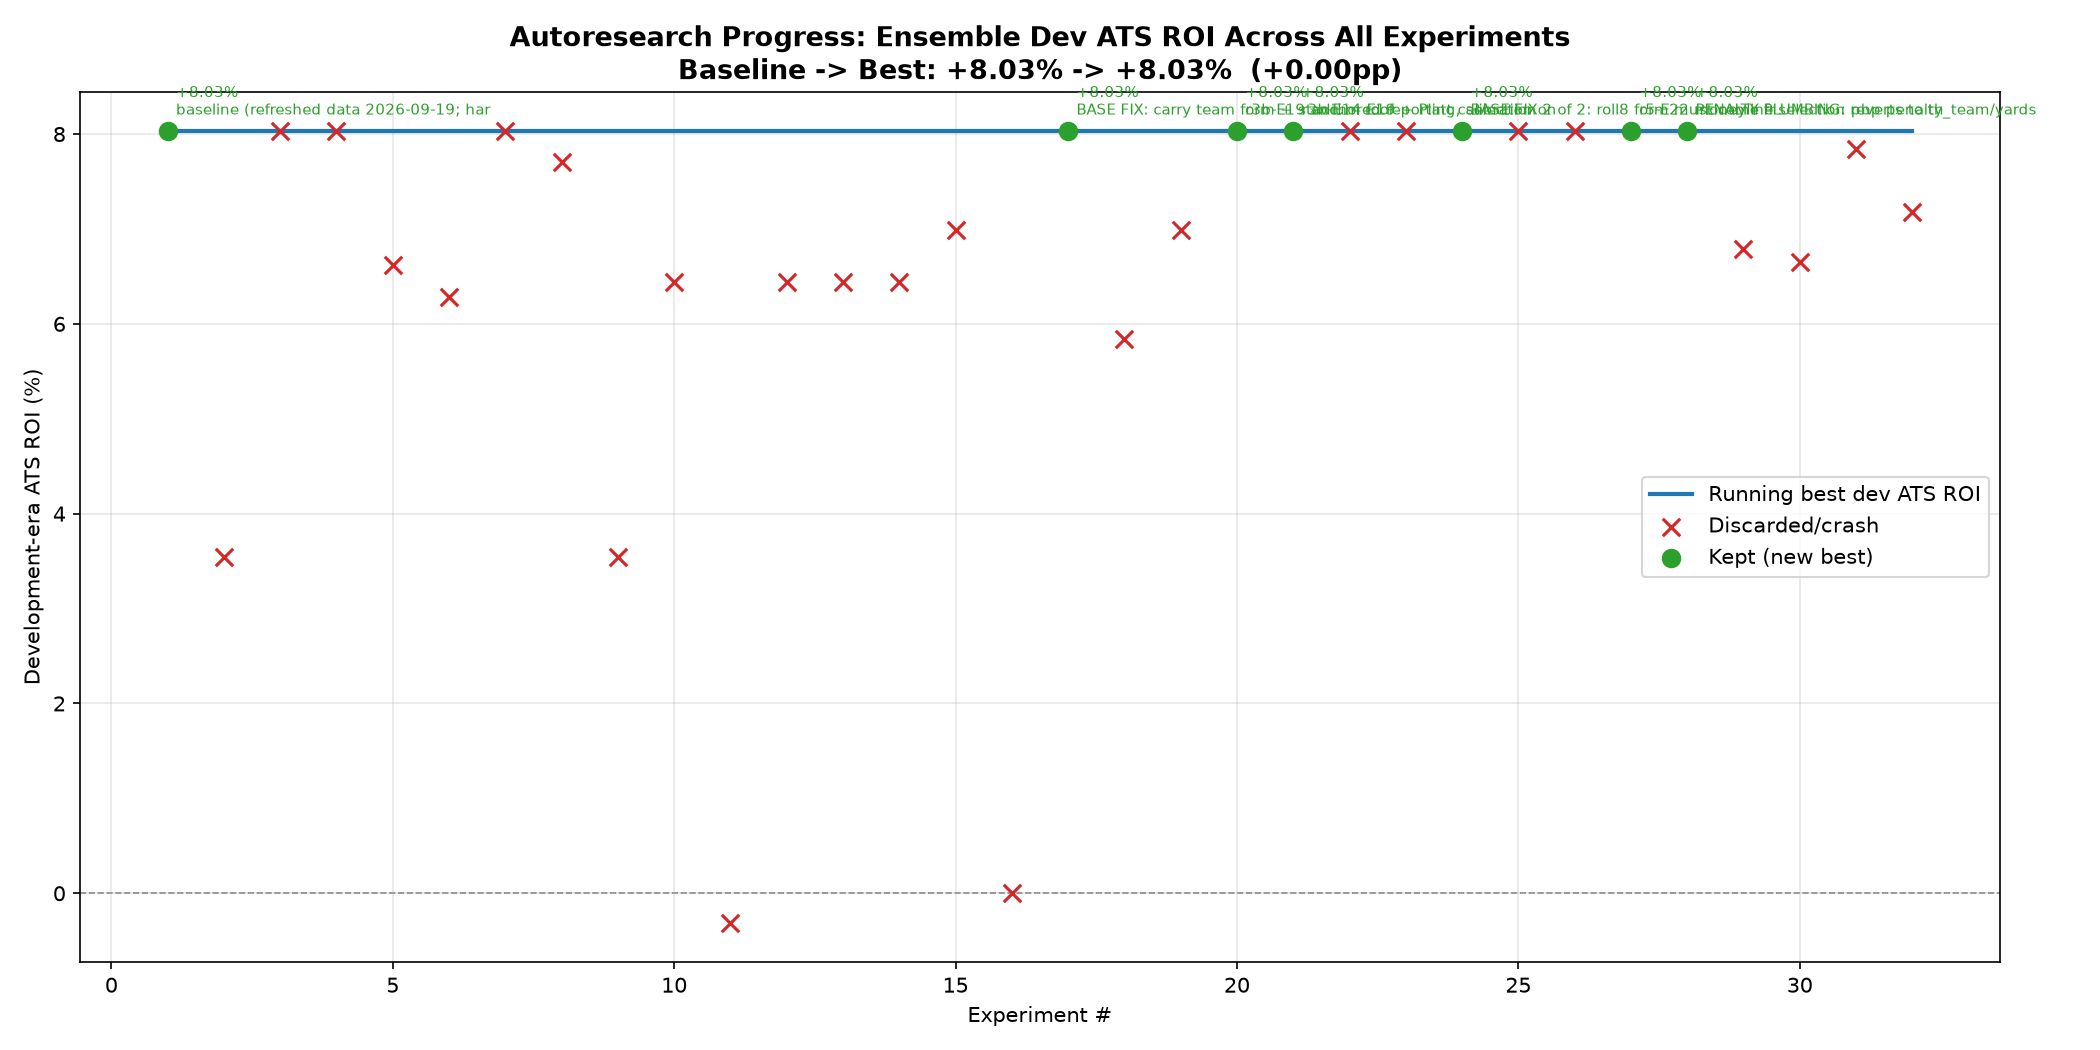
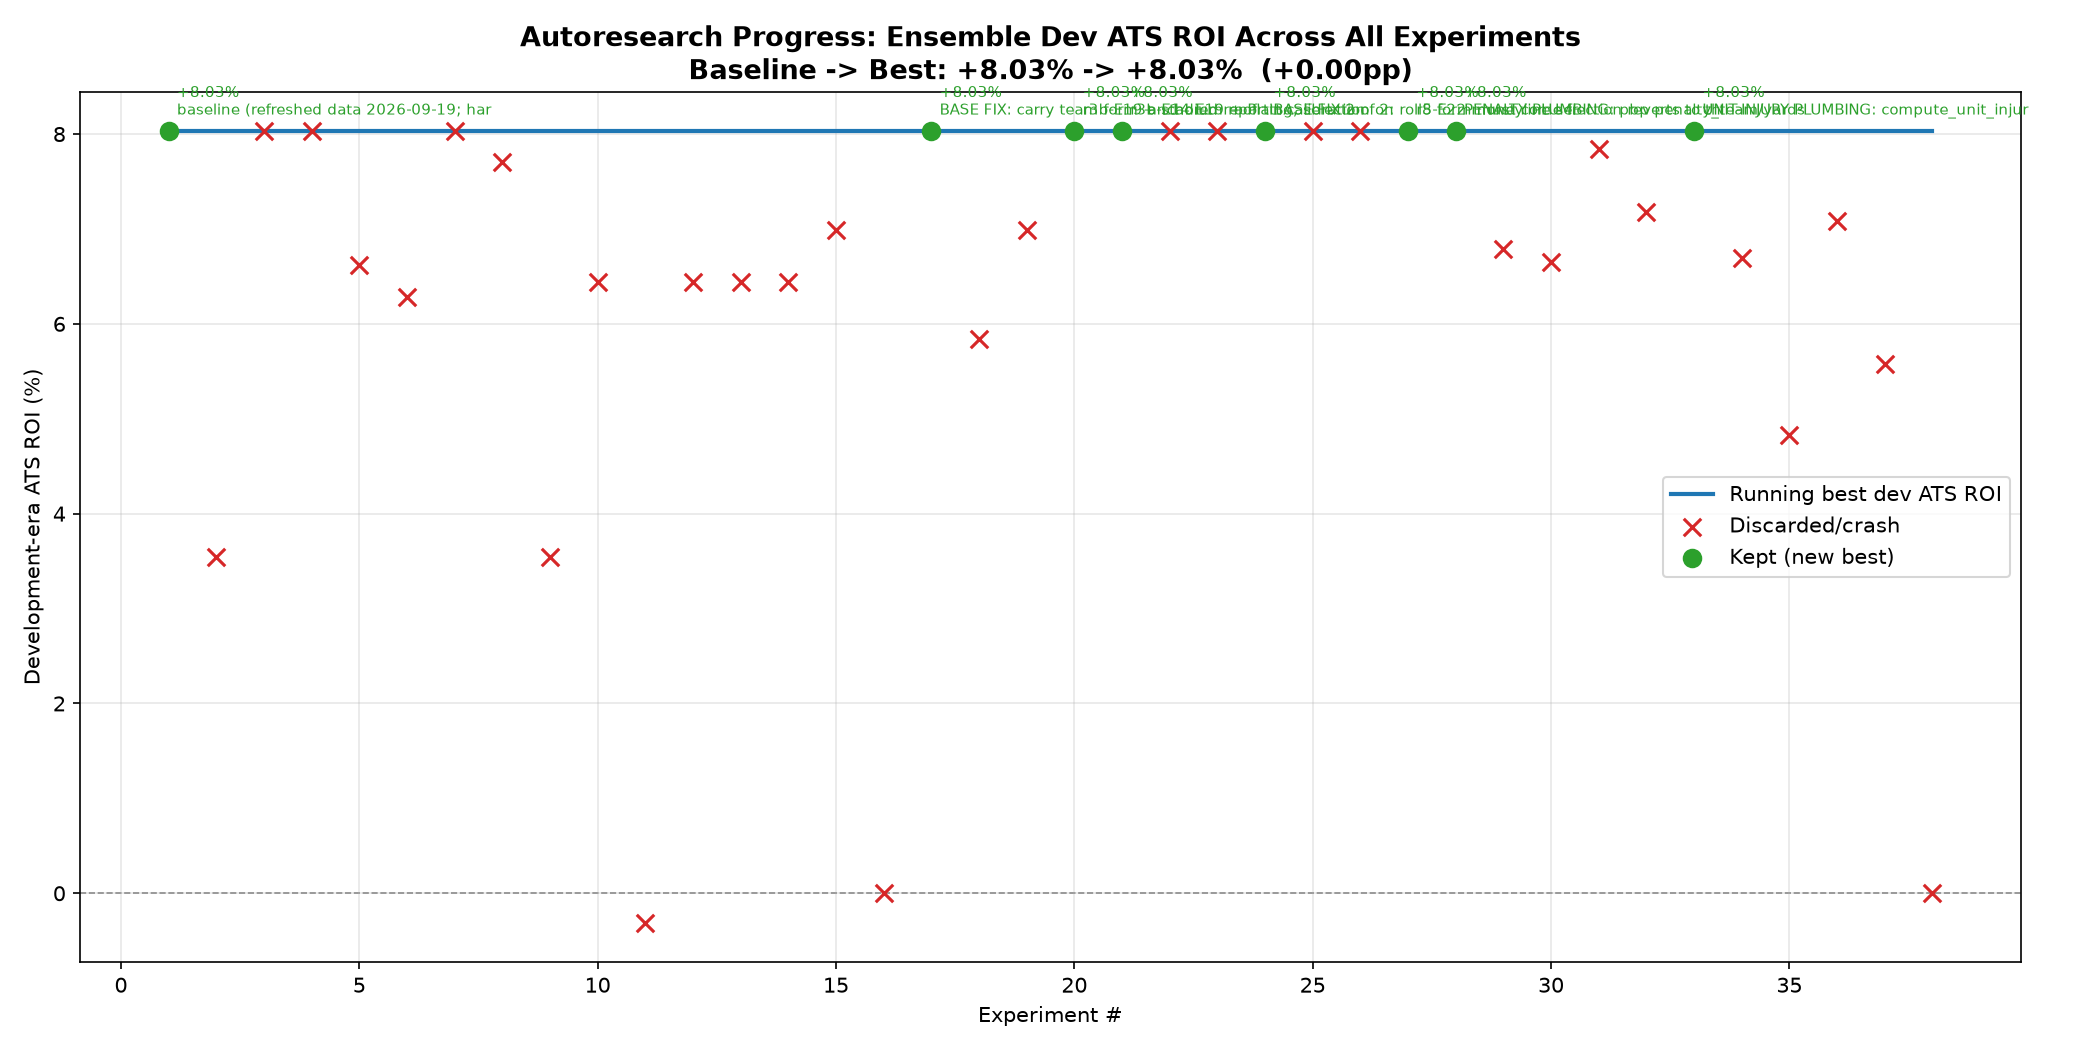
feat: unit-routed injury features (unused); record three negative results
compute_unit_injury_features splits the severity x snap-share injury weight across six position groups (OL, DL, LB, DB, receivers, backs) instead of collapsing it into one number, so an injury can be routed to the unit it degrades. Unlike unit STRENGTH data from Pro Football Reference, which starts in 2018, this uses the injury report's own position field and covers 2010-2026 in full, and is available for an upcoming game. Control run: the ensemble's ATS, ML and prediction tables are unchanged.

config.py records all three ideas from this session as measured negatives, with the machinery kept inert: penalties (redundant with EPA, which already absorbs penalty yardage through field position), unit strength (killed by a screen -- individually the correlations beat the model's own edge, but the joint out-of-sample R-squared against the market residual is negative while against raw margin it is +0.072, i.e. the market already prices them), and unit-routed injuries (a decomposition of a signal too weak to split six ways).

The transferable lesson, now written into config.py: with the ensemble market-anchored, the bar for a new feature is no longer 'does it predict the margin' but 'does it predict what the line missed'. Screening against the market residual costs minutes and would have saved building a matchup Elo here.

diff --git a/src/feature_engineering.py b/src/feature_engineering.py
@@ -624,6 +624,58 @@ def compute_qb_injury_features(
     )
 
 
+# Position groups for routing an injury to the unit it actually degrades.
+# QB is deliberately absent: it already has its own score
+# (compute_qb_injury_features) and its own form features.
+# Specialists (K, P, LS, KR) are absent too -- 455 of 40,951 usable rows, and
+# a kicker's absence is not a unit-strength question.
+INJURY_UNIT_GROUPS = {
+    "inj_ol": ["T", "G", "C"],
+    "inj_dl": ["DE", "DT"],
+    "inj_lb": ["LB"],
+    "inj_db": ["CB", "S"],
+    "inj_rec": ["WR", "TE"],
+    "inj_rb": ["RB", "FB"],
+}
+
+
+def compute_unit_injury_features(
+    injuries: pl.DataFrame, player_snap_share: pl.DataFrame | None = None
+) -> pl.DataFrame:
+    """One row per (season, week, team): the same severity x snap-share
+    injury weight as compute_injury_features, but split across six position
+    groups instead of collapsed into one number.
+
+    The motivation is that `team_injury_score` is a scalar, so a team missing
+    its starting left tackle and a team missing its slot corner produce an
+    identical value when their snap shares match, even though those degrade
+    completely different things. Splitting lets the model learn that, say, an
+    offensive-line injury costs more than a linebacker one -- if it does.
+
+    Unlike the unit-STRENGTH data from Pro Football Reference (pressure rates,
+    coverage), which only starts in 2018, the injury report carries `position`
+    back to 2010, so this covers every season the model trains on and is fully
+    available for an upcoming game. That is the whole reason to route injuries
+    by position rather than by a measured unit rating.
+
+    Sums to team_injury_score up to the specialists and any position outside
+    the groups above, so these are a decomposition of the existing feature,
+    not new information. Any model should take the six OR the scalar, never
+    both.
+    """
+    frames = []
+    for col, positions in INJURY_UNIT_GROUPS.items():
+        frames.append(
+            _severity_weighted_injury_score(
+                injuries, player_snap_share, pl.col("position").is_in(positions), col
+            )
+        )
+    out = frames[0]
+    for f in frames[1:]:
+        out = out.join(f, on=["season", "week", "team"], how="full", coalesce=True)
+    return out.with_columns([pl.col(c).fill_null(0.0) for c in INJURY_UNIT_GROUPS])
+
+
 def compute_referee_features(officials: pl.DataFrame, games: pl.DataFrame) -> pl.DataFrame:
     """One row per game_id: a leakage-safe rolling EWM of each game's
     RESIDUAL against the market's own total_line (actual total points
@@ -711,6 +763,7 @@ def add_game_context_features(
     injury_features: pl.DataFrame | None = None,
     qb_injury_features: pl.DataFrame | None = None,
     referee_features: pl.DataFrame | None = None,
+    unit_injury_features: pl.DataFrame | None = None,
 ) -> pl.DataFrame:
     """Neutral-site, weather, and (if available) prime-time/surface features,
     used directly (not as home/away diffs, since these affect both teams in
@@ -774,6 +827,30 @@ def add_game_context_features(
         df = df.join(away_inj, on=["season", "week", "away_team"], how="left")
         df = df.with_columns((pl.col("home_injury_score") - pl.col("away_injury_score")).alias("injury_diff"))
 
+    if unit_injury_features is not None:
+        # Per-unit decomposition of the same score. A team with no reported
+        # injury in a group has no row rather than a 0, and a missing group
+        # means "nobody hurt there", so both sides are filled with 0.0 before
+        # subtracting -- the same reasoning as qb_injury_diff below, and for
+        # the same reason: left null, one side's absence would null the diff
+        # for the majority of games.
+        unit_cols = [c for c in INJURY_UNIT_GROUPS if c in unit_injury_features.columns]
+        home_u = unit_injury_features.rename(
+            {"team": "home_team", **{c: f"home_{c}" for c in unit_cols}}
+        )
+        away_u = unit_injury_features.rename(
+            {"team": "away_team", **{c: f"away_{c}" for c in unit_cols}}
+        )
+        df = df.join(home_u, on=["season", "week", "home_team"], how="left")
+        df = df.join(away_u, on=["season", "week", "away_team"], how="left")
+        df = df.with_columns(
+            [pl.col(f"home_{c}").fill_null(0.0) for c in unit_cols]
+            + [pl.col(f"away_{c}").fill_null(0.0) for c in unit_cols]
+        )
+        df = df.with_columns(
+            [(pl.col(f"home_{c}") - pl.col(f"away_{c}")).alias(f"{c}_diff") for c in unit_cols]
+        )
+
     if qb_injury_features is not None:
         home_qb_inj = qb_injury_features.rename({"team": "home_team", "qb_injury_score": "home_qb_injury_score"})
         away_qb_inj = qb_injury_features.rename({"team": "away_team", "qb_injury_score": "away_qb_injury_score"})
@@ -821,6 +898,7 @@ def build_modeling_table(
     injury_features: pl.DataFrame | None = None,
     qb_injury_features: pl.DataFrame | None = None,
     referee_features: pl.DataFrame | None = None,
+    unit_injury_features: pl.DataFrame | None = None,
 ) -> pl.DataFrame:
     """Wide game-level table: one row per game, home/away form features as
     *_diff columns (home - away) for the margin models, *_sum columns
@@ -846,7 +924,9 @@ def build_modeling_table(
     home_form = home_form.rename({c: f"home_{c}" for c in form_cols})
     away_form = away_form.rename({c: f"away_{c}" for c in form_cols})
 
-    df = add_game_context_features(games, spreadspoke_ctx, injury_features, qb_injury_features, referee_features)
+    df = add_game_context_features(
+        games, spreadspoke_ctx, injury_features, qb_injury_features, referee_features, unit_injury_features
+    )
     df = df.join(home_form.drop("team"), on="game_id", how="left")
     df = df.join(away_form.drop("team"), on="game_id", how="left")
 

diff --git a/src/config.py b/src/config.py
@@ -239,6 +239,70 @@ MARGIN_MODEL_FEATURES = [
 # +5.60% -> +1.71% at the same time. Worth knowing before someone retries
 # it -- it looks like the best idea in the run right up until the holdout
 # check, which is exactly why that check exists.
+#
+# --- 2026-09-20: penalties, unit strength, and unit-routed injuries ---
+#
+# Three ideas tried together, all NEGATIVE, all with the machinery kept in
+# place and inert (same convention as the referee features). Read this before
+# retrying any of them; each failed for a different and informative reason.
+#
+# 1. PENALTIES (feature_engineering.compute_game_penalty_splits ->
+#    pen_count/pen_yards/pen_presnap, rolled leakage-safe like every other
+#    raw stat). Required a real ingestion fix first: the pbp cache kept only
+#    the `penalty` flag, and since `posteam` is the offense while ~41% of
+#    penalties are on the defense, there was no way to tell who committed
+#    one. load_pbp now keeps penalty_team/yards/type.
+#    Pre-snap penalties were kept as their own stat deliberately -- false
+#    start, offside, illegal formation are discipline, not a by-product of
+#    aggressive play, so they are much less confounded with scheme and with
+#    facing a good opponent. That hypothesis held on the raw correlation:
+#    pre-snap is the strongest of the three against both the margin (-0.090)
+#    and the market residual (-0.023).
+#    It did not survive the harness. Four ridge variants, development ATS
+#    ROI: pre-snap alone +6.79%, all three +6.65%, yards alone +7.84%,
+#    pre-snap+yards +7.18%, against a +8.03% control -- every one worse, and
+#    the MAE gap moved by at most 0.0007 when the accuracy track needs 0.01.
+#    Most likely reason, and it is not "penalties do not matter": penalty
+#    yardage already moves field position, which already moves the EPA of
+#    every subsequent play, so off_epa_play and def_epa_allowed_play have
+#    been carrying this all along. The explicit version is redundant.
+#
+# 2. UNIT STRENGTH (OL / DL / secondary ratings from Pro Football Reference
+#    advanced stats, load_pfr_advstats, 2018+). NOT BUILT -- killed by a
+#    cheap screen before any Elo machinery was written, which is the part
+#    worth keeping. Eight leakage-safe unit diffs over 2,179 games. Against
+#    the MARKET RESIDUAL the individual correlations look genuinely
+#    promising: pressure share allowed -0.052, sacks allowed -0.048,
+#    completion pct allowed +0.050, all comparable to or LARGER than the
+#    ensemble's own raw edge (+0.039). But the joint 5-fold CV R^2 on the
+#    residual is NEGATIVE (-0.0087), while on the raw home margin it is
+#    +0.072. So the units really do predict the game -- the market has
+#    simply already priced them. Two of the signs also flip implausibly
+#    (allowing a higher completion percentage associating with COVERING),
+#    which is what a noise fit looks like.
+#    The lesson generalises past this feature: now that the ensemble is
+#    market-anchored, the bar for anything new is not "does it predict the
+#    margin" but "does it predict what the line missed", and those are very
+#    different questions. Screen against the residual first; it is minutes
+#    of work and it would have saved the whole Elo build here.
+#
+# 3. UNIT-ROUTED INJURIES (feature_engineering.compute_unit_injury_features
+#    -> inj_ol/dl/lb/db/rec/rb_diff). The motivation was real: injury_diff
+#    is a scalar, so a missing left tackle and a missing slot corner with
+#    equal snap share are indistinguishable. Unlike the PFR data this uses
+#    the injury report's own `position` and so covers 2010-2026 in full and
+#    is available live. The six scores sum back to injury_diff at corr 0.96
+#    -- a decomposition, not new information, so a model takes the six OR
+#    the scalar, never both.
+#    Four variants, development ATS ROI against a +8.03% control: replacing
+#    the scalar with all six +6.69%, with the best three +4.83%, scalar plus
+#    receivers +7.08%, scalar plus all six +5.58%. The best MAE-gap move was
+#    -0.0035 (still 3x short of the bar) and it cost 3.2pp of ROI and made
+#    the HOLDOUT MAE gap 0.0088 worse. Read as: there is not enough signal
+#    in the scalar to be worth splitting six ways at this sample size, and
+#    splitting it mostly buys variance. inj_ol_diff being the WEAKEST group
+#    against the residual (-0.003), against football intuition, is a further
+#    hint that what is being split is mostly noise.
 
 # Totals (over/under) model, phase 1: a small hand-picked feature set of
 # COMBINED (summed, not diffed -- see feature_engineering.TOTAL_SUM_PREFIXES)

diff --git a/main.py b/main.py
@@ -202,12 +202,18 @@ def main():
     injury_features = feature_engineering.compute_injury_features(raw["injuries"], player_snap_share)
     qb_injury_features = feature_engineering.compute_qb_injury_features(raw["injuries"], player_snap_share)
     referee_features = feature_engineering.compute_referee_features(raw["officials"], games)
+    # Per-unit decomposition of the same injury score (inj_ol/dl/lb/db/rec/rb).
+    # Creates *_diff columns; no model uses them unless named in a feature
+    # list, and they carry no _ewm_diff/_roll8_diff suffix so LightGBM's
+    # auto-detection cannot pick them up either. Taking these AND injury_diff
+    # would double-count -- they are a decomposition of it, not new data.
+    unit_injury_features = feature_engineering.compute_unit_injury_features(raw["injuries"], player_snap_share)
 
     logger.info("Assembling game-level modeling table...")
     modeling_table = feature_engineering.build_modeling_table(
         games, team_long_form, ratings, spreadspoke_ctx=spreadspoke_ctx,
         injury_features=injury_features, qb_injury_features=qb_injury_features,
-        referee_features=referee_features,
+        referee_features=referee_features, unit_injury_features=unit_injury_features,
     )
     modeling_table.write_parquet(config.PROCESSED_DIR / "modeling_table.parquet")
     logger.info(f"Modeling table: {modeling_table.shape}")
